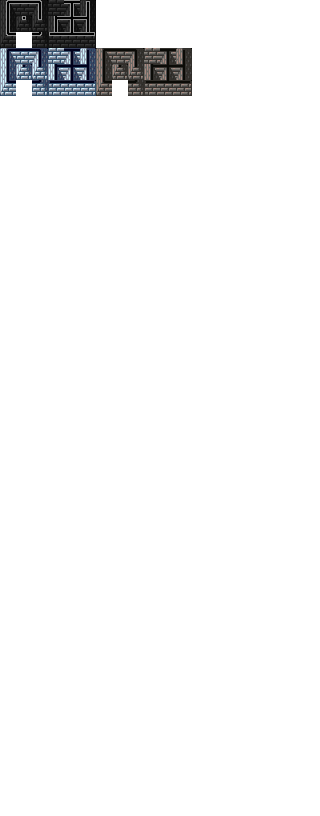
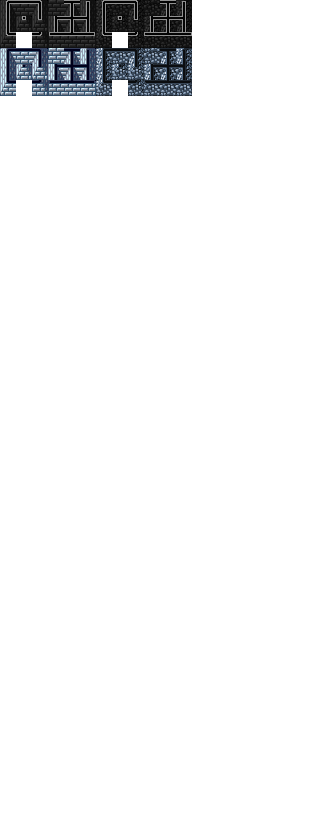
Added Cellular Automata area generator, fixed double wall rendering

Changed region(s): [[0.2812, 0.0, 0.625, 0.1225]]

diff --git a/main.js b/main.js
@@ -23,112 +23,47 @@ function Init(init) {
 	}
 
 	else if(init==2) {
-		_TileTypes.stoneWall = new _SmartTileType( 'Stone Wall', false, false, true, _Selectors.OnlyWalls, {
-			n:_sprites['stoneWall_n'],
-			e:_sprites['stoneWall_e'],
-			s:_sprites['stoneWall_s'],
-			w:_sprites['stoneWall_w'],
-			ne:_sprites['stoneWall_ne'],
-			nw:_sprites['stoneWall_nw'],
-			ns:_sprites['stoneWall_ns'],
-			ew:_sprites['stoneWall_ew'],
-			es:_sprites['stoneWall_es'],
-			ws:_sprites['stoneWall_ws'],
-			new:_sprites['stoneWall_new'],
-			nes:_sprites['stoneWall_nes'],
-			nws:_sprites['stoneWall_nws'],
-			ews:_sprites['stoneWall_ews'],
-			news:_sprites['stoneWall_news'],
-			z:_sprites['stoneWall_z'],
-
-			m_n:_sprites['wall_n_know'],
-			m_e:_sprites['wall_e_know'],
-			m_s:_sprites['wall_s_know'],
-			m_w:_sprites['wall_w_know'],
-			m_ne:_sprites['wall_ne_know'],
-			m_nw:_sprites['wall_nw_know'],
-			m_ns:_sprites['wall_ns_know'],
-			m_ew:_sprites['wall_ew_know'],
-			m_es:_sprites['wall_es_know'],
-			m_ws:_sprites['wall_ws_know'],
-			m_new:_sprites['wall_new_know'],
-			m_nes:_sprites['wall_nes_know'],
-			m_nws:_sprites['wall_nws_know'],
-			m_ews:_sprites['wall_ews_know'],
-			m_news:_sprites['wall_news_know'],
-			m_z:_sprites['wall_z_know']
-		} );
-
-		_TileTypes.stoneFloor = new _SmartTileType( 'Stone Floor', true, true, false, _Selectors.Exclusive, {
-			n:_sprites['stoneFloor_n'],
-			e:_sprites['stoneFloor_e'],
-			s:_sprites['stoneFloor_s'],
-			w:_sprites['stoneFloor_w'],
-			ne:_sprites['stoneFloor_ne'],
-			nw:_sprites['stoneFloor_nw'],
-			ns:_sprites['stoneFloor_ns'],
-			ew:_sprites['stoneFloor_ew'],
-			es:_sprites['stoneFloor_es'],
-			ws:_sprites['stoneFloor_ws'],
-			new:_sprites['stoneFloor_new'],
-			nes:_sprites['stoneFloor_nes'],
-			nws:_sprites['stoneFloor_nws'],
-			ews:_sprites['stoneFloor_ews'],
-			news:_sprites['stoneFloor_news'],
-			z:_sprites['stoneFloor_z'],
-
-			m_n:_sprites['m_stoneFloor_n'],
-			m_e:_sprites['m_stoneFloor_e'],
-			m_s:_sprites['m_stoneFloor_s'],
-			m_w:_sprites['m_stoneFloor_w'],
-			m_ne:_sprites['m_stoneFloor_ne'],
-			m_nw:_sprites['m_stoneFloor_nw'],
-			m_ns:_sprites['m_stoneFloor_ns'],
-			m_ew:_sprites['m_stoneFloor_ew'],
-			m_es:_sprites['m_stoneFloor_es'],
-			m_ws:_sprites['m_stoneFloor_ws'],
-			m_new:_sprites['m_stoneFloor_new'],
-			m_nes:_sprites['m_stoneFloor_nes'],
-			m_nws:_sprites['m_stoneFloor_nws'],
-			m_ews:_sprites['m_stoneFloor_ews'],
-			m_news:_sprites['m_stoneFloor_news'],
-			m_z:_sprites['m_stoneFloor_z'],
-		} );
-		_TileTypes.stoneFloorSingle = new _TileType('Stone Floor', true, true, false,{
-			tex:_sprites['stoneFloor_news'],
-			m_tex:_sprites['m_stoneFloor_news']
-		});
-
-		_nullSpr = _sprites['null'];
+		DefineTiles();
 
 		_CreatureTypes.testWizard = new _CreatureType( '!!Wizard!!', _sprites['wizard'], 20 );
 
 		_Maps.test = new _Map("Test Map");
 		var sh = new _Shape();
-		var wall = sh.AddStyle(_TileTypes.stoneWall);
-		var floor = sh.AddStyle(_TileTypes.stoneFloor);
-		var nx,ny;
-		var RN = r = Math.random;
-		var max = 10; var min = 2;
-		for(var xx=0; xx<12; xx++) {
-			for(var yy=0; yy<12; yy++) {
-				var w = Math.ceil(RN()*(max-min-2)) + min;
-				var h = Math.ceil(RN()*(max-min-2)) + min;
-				var x = xx*(max+4)-Math.floor(w/2);
-				var y = yy*(max+4)-Math.floor(h/2);
-				if(!nx&&!ny){ nx = x+Math.floor(w/2); ny = y+Math.floor(h/2); }
-				sh.Rectangle(x,y,w,h,floor,true,1,wall,false);
-				sh.Rectangle(x+Math.floor(w/2),y+Math.floor(h/2),1,(max+4),floor,true,1,wall,false);
-				sh.Rectangle(x+Math.floor(w/2),y+Math.floor(h/2),(max+4),1,floor,true,1,wall,false);
-			}
-		}
+		var swall = sh.AddStyle(_TileTypes.stoneWall);
+		var rwall = sh.AddStyle(_TileTypes.rockWall);
+		var sfloor = sh.AddStyle(_TileTypes.stoneFloor);
+		var dfloor = sh.AddStyle(_TileTypes.dirtFloor);
+		var rfloor = sh.AddStyle(_TileTypes.rockFloor);
+		var nx=12,ny=12;
+		// var RN = r = Math.random;
+		// var max = 10; var min = 2;
+		// for(var xx=0; xx<12; xx++) {
+		// 	for(var yy=0; yy<12; yy++) {
+		// 		var w = Math.ceil(RN()*(max-min-2)) + min;
+		// 		var h = Math.ceil(RN()*(max-min-2)) + min;
+		// 		var x = xx*(max+4)-Math.floor(w/2);
+		// 		var y = yy*(max+4)-Math.floor(h/2);
+		// 		if(!nx&&!ny){ nx = x+Math.floor(w/2); ny = y+Math.floor(h/2); }
+		// 		sh.Rectangle(x,y,w,h,sfloor,true,1,swall,false);
+		// 		sh.Rectangle(x+Math.floor(w/2),y+Math.floor(h/2),1,(max+4),dfloor,true,1,rwall,false);
+		// 		sh.Rectangle(x+Math.floor(w/2),y+Math.floor(h/2),(max+4),1,rfloor,true,1,rwall,false);
+		// 	}
+		// }
+
+		var ca = CellulaAutomata( 6, 100, 100, 0.5, 2, 8, 4 );
+		var ff = FloodFill( ca, 100, 100 );
+		sh.Rooms( 0, 0, ff, dfloor, true, 1, rwall, false );
 
 		_Maps.test.CarveShape(sh);
 		_currMap = _Maps.test;
 
 		_Player = new _Creature(_CreatureTypes.testWizard, _currMap, nx, ny );
-		_currMap.CellFOV(_Player.x,_Player.y,_configuration.viewDis)
+		_currMap.CellFOV(_Player.x,_Player.y,_configuration.viewDis);
 
+		Init(3);
+	}
+
+	else if(init==3) {
 		keyCapture();
 		Loop();
 	}

diff --git a/map.js b/map.js
@@ -479,15 +479,19 @@ _Selectors.OnlyWalls = function( map, tile ) {
 	// returns "news" values or "z"
 	out = '';
 
-	var n = map.GetCell(tile.x,tile.y-1);
-	var e = map.GetCell(tile.x+1,tile.y);
-	var w = map.GetCell(tile.x-1,tile.y);
-	var s = map.GetCell(tile.x,tile.y+1);
+	var n = map.GetCell(tile.x,tile.y-1); n = n?n.type.isWall:false;
+	var e = map.GetCell(tile.x+1,tile.y); e = e?e.type.isWall:false;
+	var w = map.GetCell(tile.x-1,tile.y); w = w?w.type.isWall:false;
+	var s = map.GetCell(tile.x,tile.y+1); s = s?s.type.isWall:false;
+	var ne = map.GetCell(tile.x+1,tile.y-1); ne = ne?ne.type.isWall:false;
+	var nw = map.GetCell(tile.x-1,tile.y-1); nw = nw?nw.type.isWall:false;
+	var se = map.GetCell(tile.x+1,tile.y+1); se = se?se.type.isWall:false;
+	var sw = map.GetCell(tile.x-1,tile.y+1); sw = sw?sw.type.isWall:false;
 
-	out += n && n.type.isWall? 'n':'' ;
-	out += e && e.type.isWall? 'e':'' ;
-	out += w && w.type.isWall? 'w':'' ;
-	out += s && s.type.isWall? 's':'' ;
+	out += n && !(ne && nw && e && w) ? 'n':'' ;
+	out += e && !(ne && se && n && s) ? 'e':'' ;
+	out += w && !(nw && sw && n && s) ? 'w':'' ;
+	out += s && !(se && sw && e && w) ? 's':'' ;
 
 	if(out==''){ out='z'; }
 

diff --git a/character.js b/character.js
@@ -36,7 +36,7 @@ var _Creature = function( type, map, x, y ) {
 		var go = self.map.IsCellWalkable(self.x+dx,self.y+dy);
 		if(!go&&teleport) {
 			console.log("SQUELCH!");
-			self.Damage(PDis({x:0,y:0},{x:dx,y:dy}));
+			self.Damage(Math.ceil( PDis({x:0,y:0},{x:dx,y:dy}) ));
 		}
 		else if(!go) {
 			var gox = self.map.IsCellWalkable(self.x+dx,self.y);

diff --git a/index.htm b/index.htm
@@ -5,7 +5,9 @@
 <script src="main.js"></script>
 <script src="load.js"></script>
 <script src="map.js"></script>
+<script src="generator.js"></script>
 <script src="character.js"></script>
+<script src="tileDefines.js"></script>
 
 <style>
 canvas {
